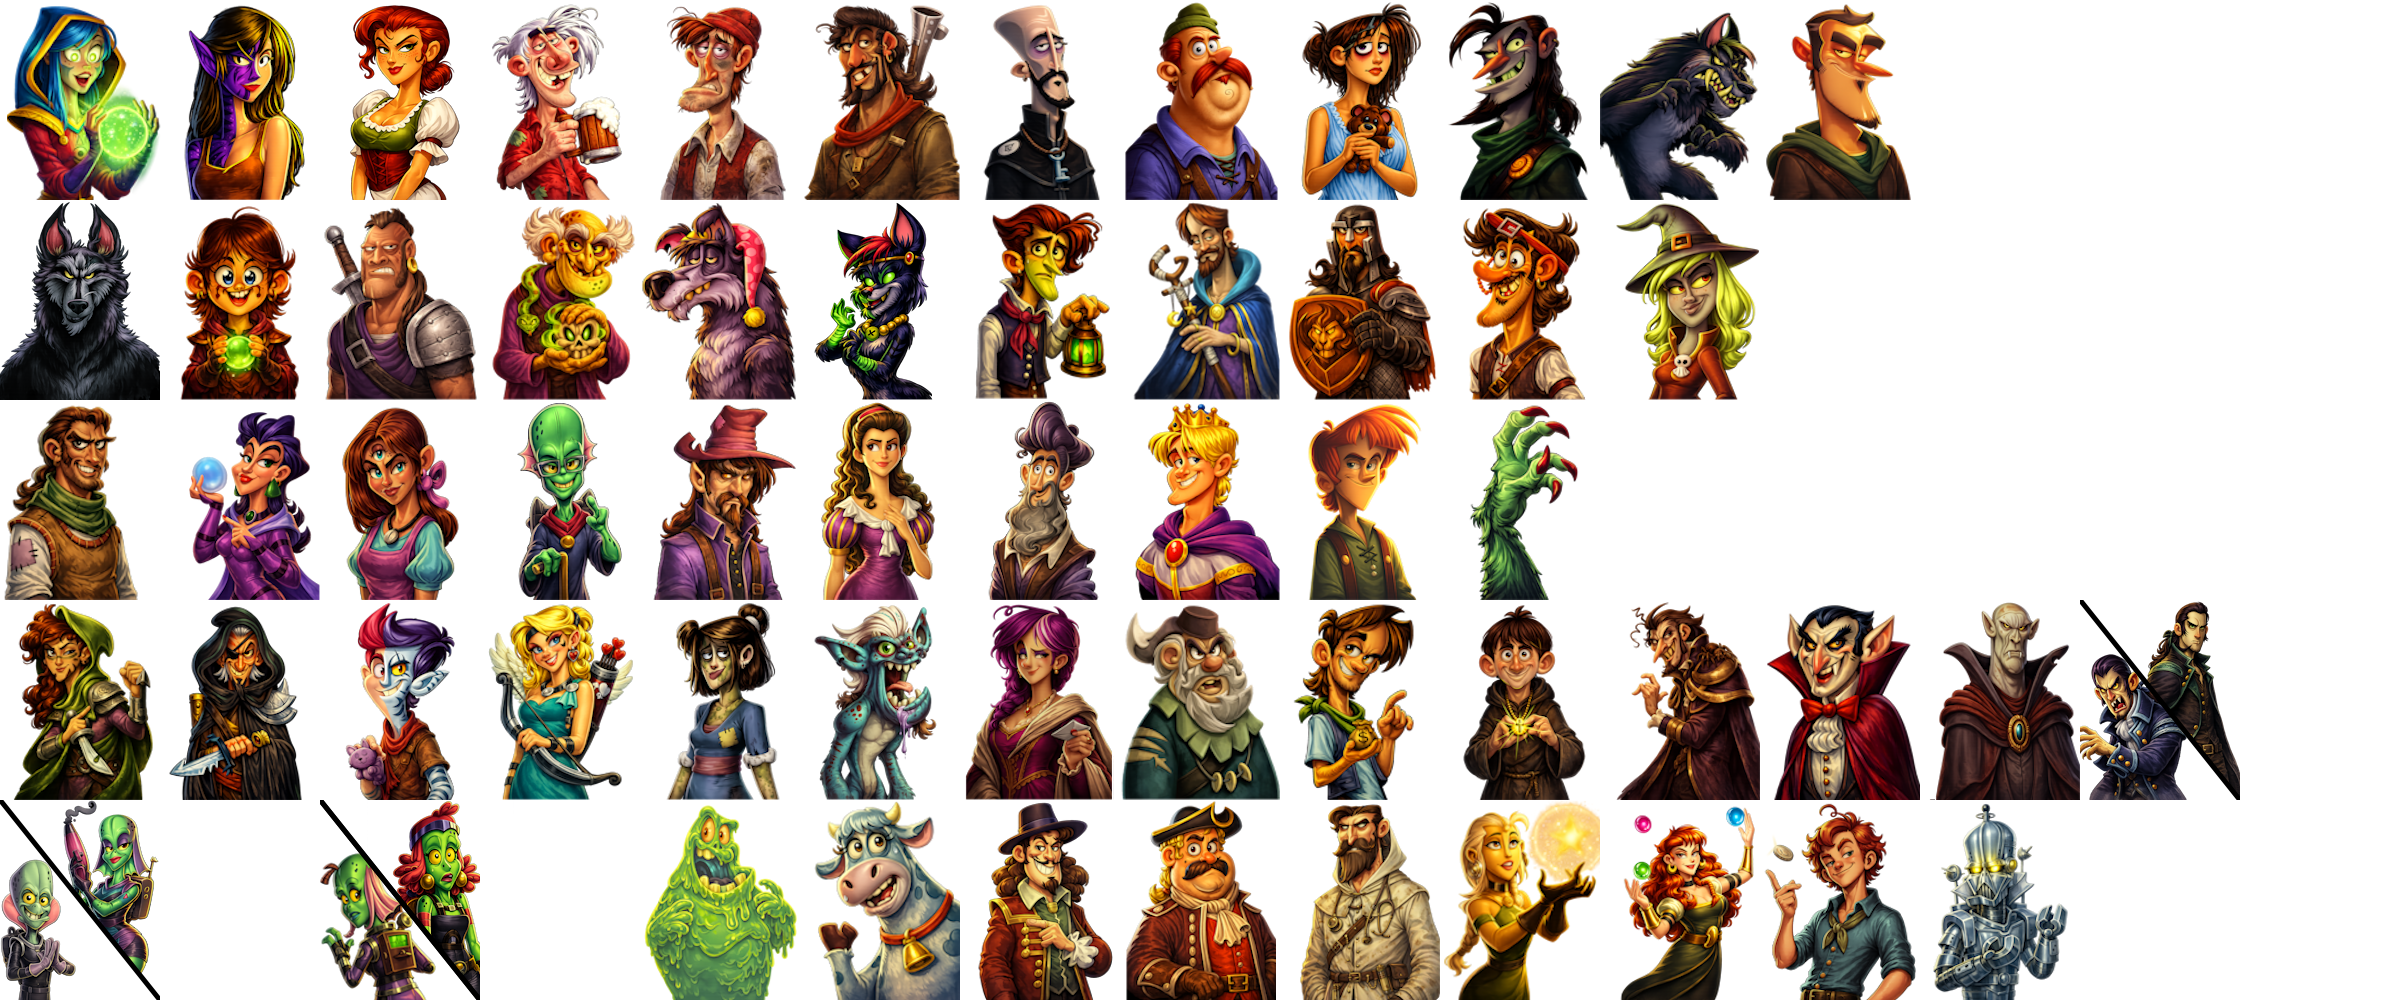
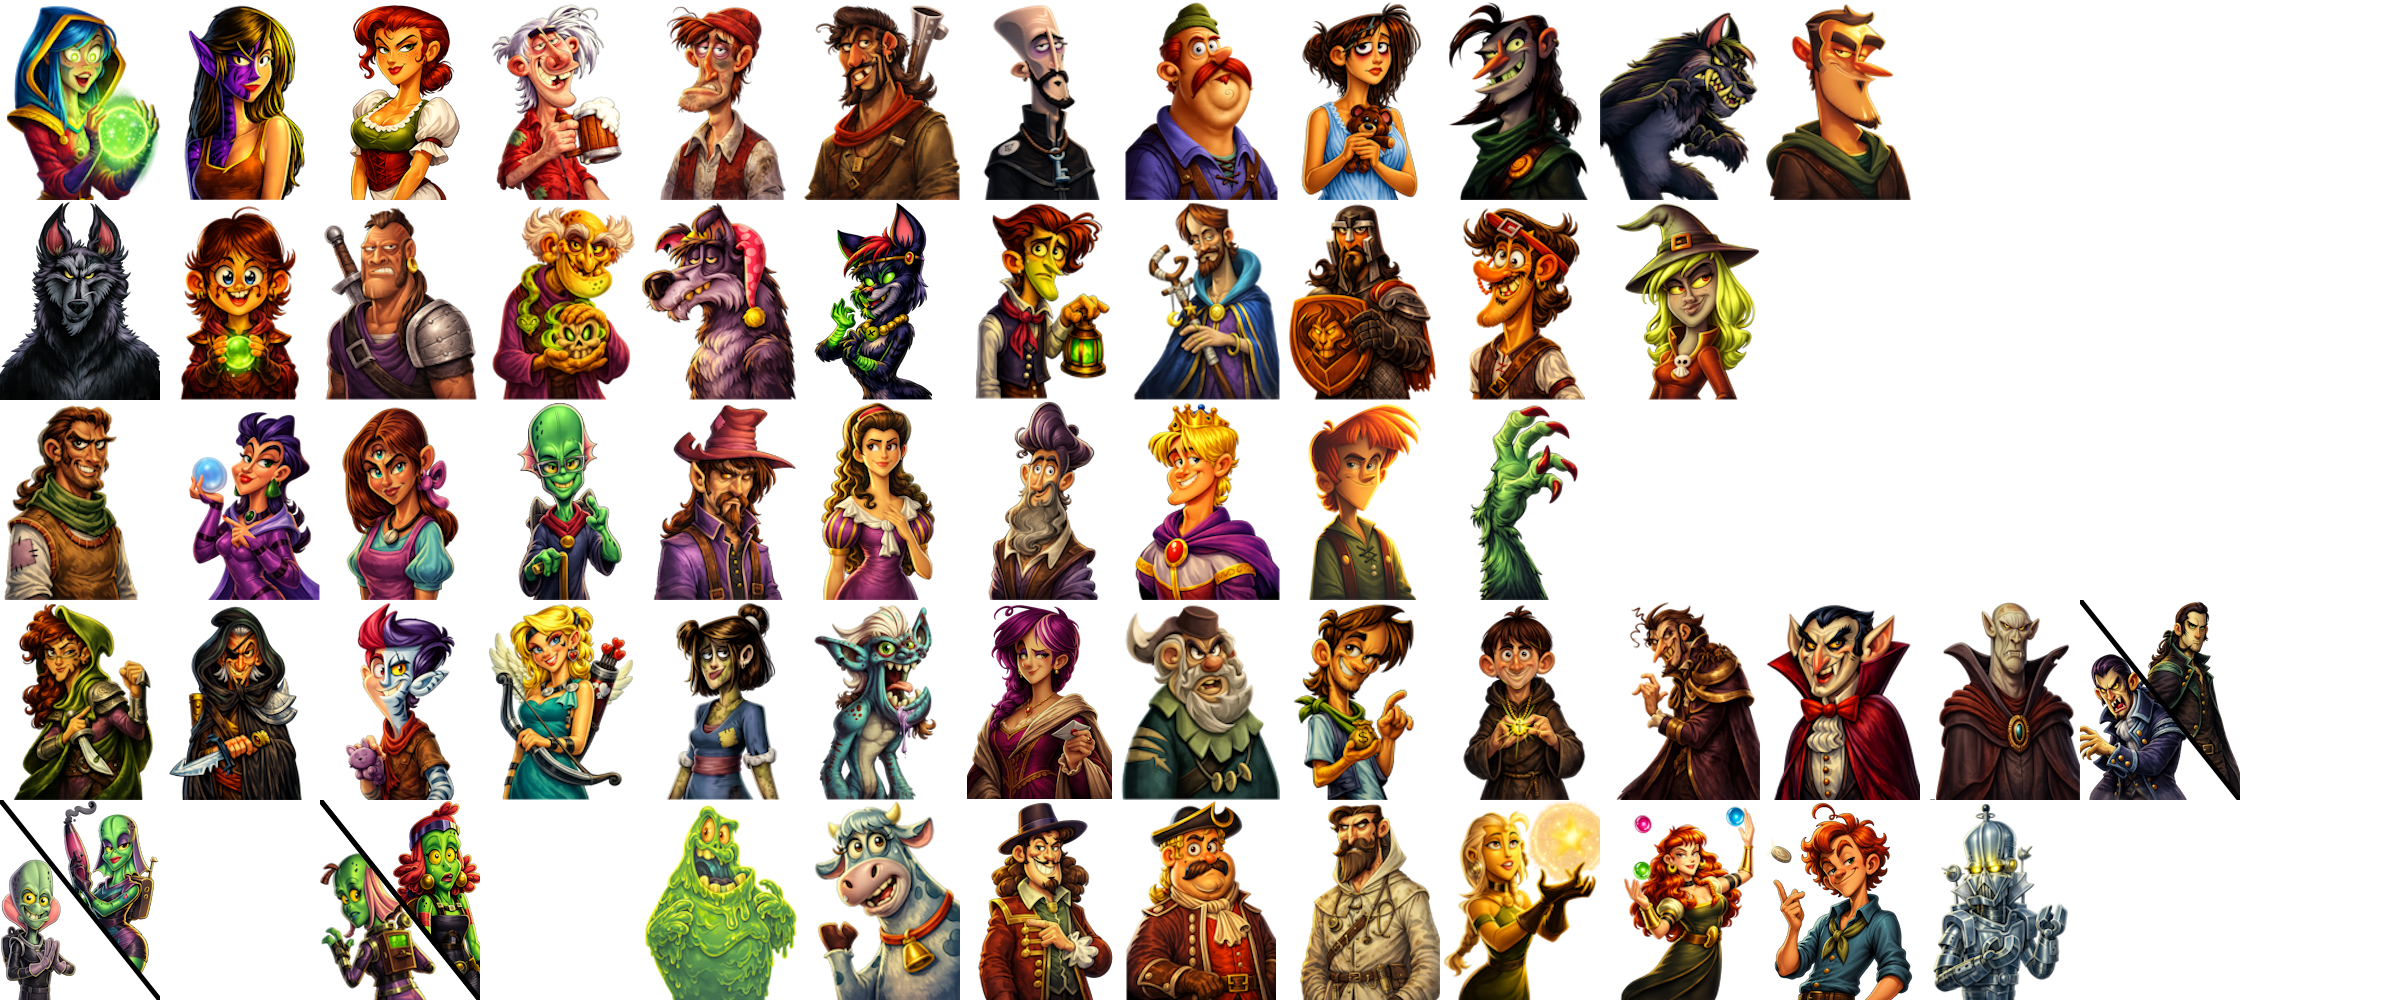
Add files via upload

Changed region(s): [[0.7188, 0.806, 0.8125, 1.0], [0.4062, 0.589, 0.4375, 0.806]]

diff --git a/localization.js b/localization.js
@@ -1,4 +1,4 @@
-let LANG = "ENG";
+let LANG = "SWE";
 
 const LOCALIZATION = {
 	ENG: {
@@ -72,8 +72,9 @@ const LOCALIZATION = {
 		PROMPT_GREMLIN: "{ROLE_GREMLIN}, wake up. {PROMPT_GREMLIN_ACTION} {ROLE_GREMLIN}, go to sleep.",
 		PROMPT_GREMLIN_ACTION: "Swap either two other players' marks or two other players' cards, without looking at them.",
 		PROMPT_GREMLIN_DOPPELGANGER: "{ROLE_DOPPELGANGER}, if you saw {ROLE_GREMLIN_DEFINITE}, wake up. {PROMPT_GREMLIN_ACTION} {ROLE_DOPPELGANGER}, go to sleep.",
-		PROMPT_INSOMNIAC: "{ROLE_INSOMNIAC}, wake up. Look at your own card. {ROLE_INSOMNIAC}, go to sleep.",
-		PROMPT_INSOMNIAC_DOPPELGANGER: "{ROLE_DOPPELGANGER}, if you saw {ROLE_INSOMNIAC_DEFINITE}, wake up. Look at your own card. {ROLE_DOPPELGANGER}, go to sleep.",
+		PROMPT_INSOMNIAC: "{ROLE_INSOMNIAC}, wake up. {PROMPT_INSOMNIAC_ACTION} {ROLE_INSOMNIAC}, go to sleep.",
+		PROMPT_INSOMNIAC_ACTION: "Look at your own card.",
+		PROMPT_INSOMNIAC_DOPPELGANGER: "{ROLE_DOPPELGANGER}, if you saw {ROLE_INSOMNIAC_DEFINITE}, wake up. {PROMPT_INSOMNIAC_ACTION} {ROLE_DOPPELGANGER}, go to sleep.",
 		PROMPT_INSTIGATOR: "{ROLE_INSTIGATOR}, wake up. Replace another player's mark with {ROLE_INSTIGATOR_DEFINITE}'s mark. {ROLE_INSTIGATOR}, go to sleep.",
 		PROMPT_LEADER: "{ROLE_LEADER}, wake up. {TEAM_ALIEN_PLURAL}, hold out a thumb so {ROLE_LEADER_DEFINITE} can see. {IfPresent:'FEUDINGALIENS','PROMPT_LEADER_FEUDINGALIENS'} {ROLE_LEADER}, go to sleep. {IfDoppelgangerPresent:'PROMPT_LEADER_DOPPELGANGER'} {TEAM_ALIEN_PLURAL}, put your thumbs down.",
 		PROMPT_LEADER_DOPPELGANGER: "{ROLE_DOPPELGANGER}, if you saw {ROLE_LEADER_DEFINITE}, wake up. {TEAM_ALIEN_PLURAL}, keep your thumbs out so {ROLE_DOPPELGANGER} can see. {ROLE_DOPPELGANGER}, go to sleep.",
@@ -516,8 +517,9 @@ const LOCALIZATION = {
 		PROMPT_GREMLIN: "{ROLE_GREMLIN}, vakna. {PROMPT_GREMLIN_ACTION} {ROLE_GREMLIN}, somna.",
 		PROMPT_GREMLIN_ACTION: "Byt plats på två andra spelares märken eller två andra spelares kort, utan att titta på något av dem.",
 		PROMPT_GREMLIN_DOPPELGANGER: "{ROLE_DOPPELGANGER}, om du såg {ROLE_GREMLIN_DEFINITE}, vakna. {PROMPT_GREMLIN_ACTION} {ROLE_DOPPELGANGER}, somna.",
-		PROMPT_INSOMNIAC: "{ROLE_INSOMNIAC}, vakna. Titta på ditt eget kort. {ROLE_INSOMNIAC}, somna.",
-		PROMPT_INSOMNIAC_DOPPELGANGER: "{ROLE_DOPPELGANGER}, om du såg {ROLE_INSOMNIAC_DEFINITE}, vakna. Titta på ditt eget kort. {ROLE_DOPPELGANGER}, somna.",
+		PROMPT_INSOMNIAC: "{ROLE_INSOMNIAC}, vakna. {PROMPT_INSOMNIAC_ACTION} {ROLE_INSOMNIAC}, somna.",
+		PROMPT_INSOMNIAC_ACTION: "Titta på ditt eget kort.",
+		PROMPT_INSOMNIAC_DOPPELGANGER: "{ROLE_DOPPELGANGER}, om du såg {ROLE_INSOMNIAC_DEFINITE}, vakna. {PROMPT_INSOMNIAC_ACTION} {ROLE_DOPPELGANGER}, somna.",
 		PROMPT_INSTIGATOR: "{ROLE_INSTIGATOR}, vakna. Byt ut en annan spelares märke mot {ROLE_INSTIGATOR_DEFINITE}s märke. {ROLE_INSTIGATOR}, somna.",
 		PROMPT_LEADER: "{ROLE_LEADER}, vakna. {TEAM_ALIEN_PLURAL}, håll ut en tumme så att {ROLE_LEADER_DEFINITE} kan se. {IfPresent:'FEUDINGALIENS','PROMPT_LEADER_FEUDINGALIENS'} {ROLE_LEADER}, somna. {IfDoppelgangerPresent:'PROMPT_LEADER_DOPPELGANGER'} {TEAM_ALIEN_PLURAL}, dra tillbaka tummarna.",
 		PROMPT_LEADER_DOPPELGANGER: "{ROLE_DOPPELGANGER}, om du såg {ROLE_LEADER_DEFINITE}, vakna. {TEAM_ALIEN_PLURAL}, fortsätt hålla ut tummarna så att {ROLE_DOPPELGANGER} kan se. {ROLE_DOPPELGANGER}, somna.",
@@ -566,9 +568,6 @@ const LOCALIZATION = {
 		PROMPT_REVEALER_ACTION: "Vänd en annan spelares kort ansiktet upp. {IfAnyWithTag:'REVEALER_HIDDEN_ROLE','PROMPT_REVEALER_HIDDEN_ROLE'}.",
 		PROMPT_REVEALER_DOPPELGANGER: "{ROLE_DOPPELGANGER}, om du såg {ROLE_REVEALER_DEFINITE}, vakna. {PROMPT_REVEALER_ACTION} {ROLE_DOPPELGANGER}, somna.",
 		PROMPT_REVEALER_HIDDEN_ROLE: "Om kortet är: {ListRolesWithTag:'REVEALER_HIDDEN_ROLE'}, vänd kortet tillbaka med ansiktet ner",
-		PROMPT_RIPPLE: "{RippleRandomEvent}",
-		PROMPT_RIPPLE_FALLBACK: " ",	//Empty string, something went wrong so just ignore the ripple
-		PROMPT_RIPPLE_NONE: "<Berättare: ignorera följande om inte {ROLE_ORACLE_DEFINITE} valt att tvinga fram en krusning> {RippleRandomEvent:true}",
 		PROMPT_ROBBER: "{ROLE_ROBBER}, vakna. {PROMPT_ROBBER_ACTION} {ROLE_ROBBER}, somna.",
 		PROMPT_ROBBER_ACTION: "Du kan välja att stjäla en annan spelares kort och ersätta det med ditt kort. Titta sedan på kortet du stal. Du ska inte vakna när din nya roll ropas upp.",
 		PROMPT_SEER: "{ROLE_SEER}, vakna. Du kan titta på en annan spelares kort, eller två av mittenkorten. {ROLE_SEER}, somna.",
@@ -886,7 +885,27 @@ const LOCALIZATION = {
 		UI_WINCONDITION_TEAM_VAMPIRE: "Vinner om ingen {TEAM_VAMPIRE} röstas ut.",
 		UI_WINCONDITION_TEAM_VILLAGE: "Vinner om minst en {TEAM_WEREWOLF}, {TEAM_VAMPIRE} eller {TEAM_ALIEN} röstas ut.",
 		UI_WINCONDITION_TEAM_WEREWOLF: "Vinner om ingen {TEAM_WEREWOLF} röstas ut.",
-		UI_WINCONDITION_VARIABLE_NOTE: "Kortets vinstvilkor kan förändras, som vid kopiering av en annan roll.",		
+		UI_WINCONDITION_VARIABLE_NOTE: "Kortets vinstvilkor kan förändras, som vid kopiering av en annan roll.",
+		
+		
+		
+		PROMPT_RIPPLE: "{RippleRandomEvent}",
+		PROMPT_RIPPLE_FALLBACK: " ",	//Empty string, something went wrong so just ignore the ripple
+		PROMPT_RIPPLE_NONE: "<Berättare: ignorera följande om inte {ROLE_ORACLE_DEFINITE} valt att tvinga fram en krusning> {RippleRandomEvent:true}",
+		PROMPT_RIPPLE_PREFIX: "Det har inträffat en krusning i rum-tiden.",
+		PROMPT_RIPPLE_ONE_MINUTE: "{PROMPT_RIPPLE_PREFIX} Ni har endast en minut på er innan ni måste rösta.",
+		PROMPT_RIPPLE_INSOMNIAC: "{PROMPT_RIPPLE_PREFIX} Spelare {RandomPlayers:'ripple',1,'20%'}, vakna. {PROMPT_INSOMNIAC_ACTION}",
+		PROMPT_RIPPLE_MUTED: "{PROMPT_RIPPLE_PREFIX} Spelare {RandomPlayers:'ripple',1,'20%'} får inte prata till efter omröstningen.",
+		PROMPT_RIPPLE_REBUKED: "{PROMPT_RIPPLE_PREFIX} Spelare {RandomPlayers:'ripple',1,'20%'} måste vända sig från bordet till efter omröstningen.",
+		PROMPT_RIPPLE_TROUBLEMAKER: "{PROMPT_RIPPLE_PREFIX} Spelare {RandomPlayers:'ripple',1}, vakna. {PROMPT_TROUBLEMAKER_ACTION}",
+		PROMPT_RIPPLE_ROBBER: "{PROMPT_RIPPLE_PREFIX} Spelare {RandomPlayers:'ripple',1}, vakna. {PROMPT_ROBBER_ACTION}",
+		PROMPT_RIPPLE_WITCH: "{PROMPT_RIPPLE_PREFIX} Spelare {RandomPlayers:'ripple',1}, vakna. {PROMPT_WITCH_ACTION}",
+		PROMPT_RIPPLE_REVEALER: "{PROMPT_RIPPLE_PREFIX} Spelare {RandomPlayers:'ripple',1}, vakna. {PROMPT_REVEALER_ACTION}",
+		PROMPT_RIPPLE_DRUNK: "{PROMPT_RIPPLE_PREFIX} Spelare {RandomPlayers:'ripple',1}, vakna. {PROMPT_DRUNK_ACTION}",
+		PROMPT_RIPPLE_VIEW_PLAYER: "{PROMPT_RIPPLE_PREFIX} Spelare {RandomPlayers:'ripple',1}, vakna. Du får titta på kort för spelare {RandomPlayers:'ripple2',1}",
+		PROMPT_RIPPLE_DUAL_VIEW_PLAYER: "{PROMPT_RIPPLE_PREFIX} Spelare {RandomPlayers:'ripple',1}, vakna. Du får titta på kort för spelare {RandomPlayers:'ripple2',2}",
+		PROMPT_RIPPLE_DOUBLE_VOTE: "{PROMPT_RIPPLE_PREFIX} Spelare {RandomPlayers:'ripple',1,'20%'}, får under omröstningen använda båda händer för att rösta för dubbla röster.",
+		
 	},
 };
 
@@ -1090,7 +1109,7 @@ function saveLanguage(lang) {
 }
 
 function loadLanguage() {
-    return localStorage.getItem("onuww_lang") || "ENG";
+    return localStorage.getItem("onuww_lang") || "SWE";
 }
 
 function setLocalizationLanguage(lang) {

diff --git a/rules.js b/rules.js
@@ -351,6 +351,31 @@ const TURN_ORDER = [
 const RNG_CACHE = Object.create(null);
 
 const EXECUTORS = {
+	formatListString: (ctx, items, isOr = true) => {
+		if (!Array.isArray(items) || items.length === 0) {
+			return "";
+		}
+
+		if (items.length === 1) {
+			return String(items[0]);
+		}
+
+		const joinWord = LocR(isOr ? "LIST_OR" : "LIST_AND", ctx);
+
+		if (items.length === 2) {
+			return `${items[0]} ${joinWord} ${items[1]}`;
+		}
+
+		return ( items.slice(0, -1).join(", ") + ` ${joinWord} ` + items[items.length - 1] );
+	},
+	listRolesWithTag: (ctx, tag, isOr = true) => {
+		const roles = getRolesWithTag(ctx, tag)
+			.filter(role => ctx.isPresent(role.id))
+			.map(role => LocR(role.nameKey, ctx));
+			
+		return EXECUTORS.formatListString(ctx, roles, isOr);
+	},
+	/*
 	listRolesWithTag: (ctx, tag, isOr = true) => {
 		const roles = getRolesWithTag(ctx, tag)
 			.filter(role => ctx.isPresent(role.id))
@@ -366,6 +391,7 @@ const EXECUTORS = {
 			roles[roles.length - 1]
 		);
 	},
+	*/
 	MorticianRandomEvent: (ctx, doppelganger = false) => {
 		const weights = [
 			{ id: "PROMPT_SHARED_VIEW_PLAYER_NEIGHBOR_LEFT",  weight: getSettingInt(ctx, "mortician.neighbor", 1) / 2 },
@@ -459,7 +485,9 @@ const EXECUTORS = {
 		prompt = prompt + mode;
 		let data = {};
 		if (mode === "SPECIFIC") {
-			data = { specific_player_number: (Math.floor(getCachedRandom("oracle.view_player.specific_player_number") * ctx.player_count) + 1).toString() };
+			const result = EXECUTORS.RandomPlayers(ctx, "oracle.view_player", 1);
+			data = { specific_player_number: result };
+			//data = { specific_player_number: (Math.floor(getCachedRandom("oracle.view_player.specific_player_number") * ctx.player_count) + 1).toString() };
 		}
 		
 		return LocR(prompt, { ...ctx, ...data });
@@ -534,7 +562,9 @@ const EXECUTORS = {
 		let prompt = "PROMPT_SHARED_VIEW_" + (mode ?? "PLAYER_NEIGHBOR_ANY");
 		let data = {};
 		if (mode === "PLAYER_SPECIFIC") {
-			data = { specific_player_number: (Math.floor(getCachedRandom(setting_node + ".specific_player_number") * ctx.player_count) + 1).toString() };
+			const result = EXECUTORS.RandomPlayers(ctx, setting_node, 1);
+			data = { specific_player_number: result };
+			//data = { specific_player_number: (Math.floor(getCachedRandom(setting_node + ".specific_player_number") * ctx.player_count) + 1).toString() };
 		}
 		
 		return LocR(prompt, { ...ctx, ...data })
@@ -559,14 +589,7 @@ const EXECUTORS = {
 				prompt = prompt + (view_double ? "_BOTH" : "_ANY");
 				break;
 			case "SPECIFIC":
-				const arr = Array.from({ length: ctx.player_count }, (_, i) => i);
-				const result = [];
-
-				for (let i = 0; i < (view_double ? 2 : 1); i++) {
-					const p = Math.floor( getCachedRandom("psychic.specific_player_number_" + i) * arr.length );
-					result.push(arr.splice(p, 1)[0] + 1);
-				}
-
+				const result = EXECUTORS.RandomPlayers(ctx, "psychic.specific", view_double ? 2 : 1);
 				data = { specific_player_number: result.toString() };
 				break;
 			default:
@@ -674,16 +697,7 @@ const EXECUTORS = {
 	},
 	EmpathPlayerList: (ctx, isDoppelganger = false) => {
 		const rndKey = "empath" + (isDoppelganger ? "_doppelganger" : "");
-		const playerCount = Math.min(Math.floor(0.25 * ctx.player_count + 1), 4);	//TODO: Change from constants to settings values
-		let all_players = Array.from({length: 10}, (_, i) => i + 1)
-		let players = [];
-		
-		for (let i = 0; i < playerCount; i++) {
-			const idx = Math.floor(getCachedRandom(rndKey + ".player_" + i) * all_players.length);
-			players.push(all_players.splice(idx, 1)[0]);
-		}
-		
-		return players.sort((a,b) => { return a-b; }).toString();
+		return EXECUTORS.RandomPlayers(ctx, rndKey, 1, 4);
 	},
 	EmpathPlayerAction: (ctx, isDoppelganger = false) => {
 		const rndKey = "empath" + (isDoppelganger ? "_doppelganger" : "");
@@ -730,6 +744,45 @@ const EXECUTORS = {
 	IfPresent: (ctx, role, prompt) => { return ctx.isPresent(role) ? LocR(prompt, ctx) : ""; },
 	IfAnyWithTag: (ctx, tag, prompt) => { return ctx.anyWithTag(tag) ? LocR(prompt, ctx) : ""; },
 	ListRolesWithTag: (ctx, tag, isOr = true) => { return EXECUTORS.listRolesWithTag(ctx, tag, isOr); },
+	RandomPlayers: (ctx, rndKey, min, max) => {		
+		function parseArg(arg) {
+			if (typeof arg === "string" && arg.endsWith("%")) {
+				const p = parseFloat(arg) / 100.0;
+				return Math.ceil(ctx.player_count * p);
+			}
+			
+			if (typeof arg === "number" && Number.isInteger(arg)) {
+				return arg;
+			}
+
+			return null;
+		}
+
+		let minAbs = parseArg(min) ?? 1;
+		let maxAbs = parseArg(max) ?? minAbs;
+
+		if (minAbs > maxAbs) {
+			[minAbs, maxAbs] = [maxAbs, minAbs];
+		}
+
+		minAbs = Math.min(minAbs, ctx.player_count);
+		maxAbs = Math.min(maxAbs, ctx.player_count);
+		
+		const playerCount = Math.floor(getCachedRandom(rndKey) * (maxAbs - minAbs + 1)) + minAbs;
+		
+		console.log(min + ", " + max + ", " + minAbs + ", " + maxAbs + ", " + playerCount);
+		
+		let all_players = Array.from({length: ctx.player_count}, (_, i) => i + 1)
+		let players = [];
+		
+		for (let i = 0; i < playerCount; i++) {
+			const idx = Math.floor(getCachedRandom(rndKey + ".player_" + i) * all_players.length);
+			players.push(all_players.splice(idx, 1)[0]);
+		}
+		
+		//return players.sort((a,b) => { return a-b; }).toString();
+		return EXECUTORS.formatListString(ctx, players.sort((a, b) => a - b).map(String), false);
+	},
 }
 
 

diff --git a/index.html b/index.html
@@ -16,8 +16,8 @@
     <h1 data-loc="UI_TITLE"></h1>
 
     <select id="languageSelector">
-        <option value="ENG">English</option>
         <option value="SWE">Svenska</option>
+        <option value="ENG">English</option>
     </select>
 </div>
 
